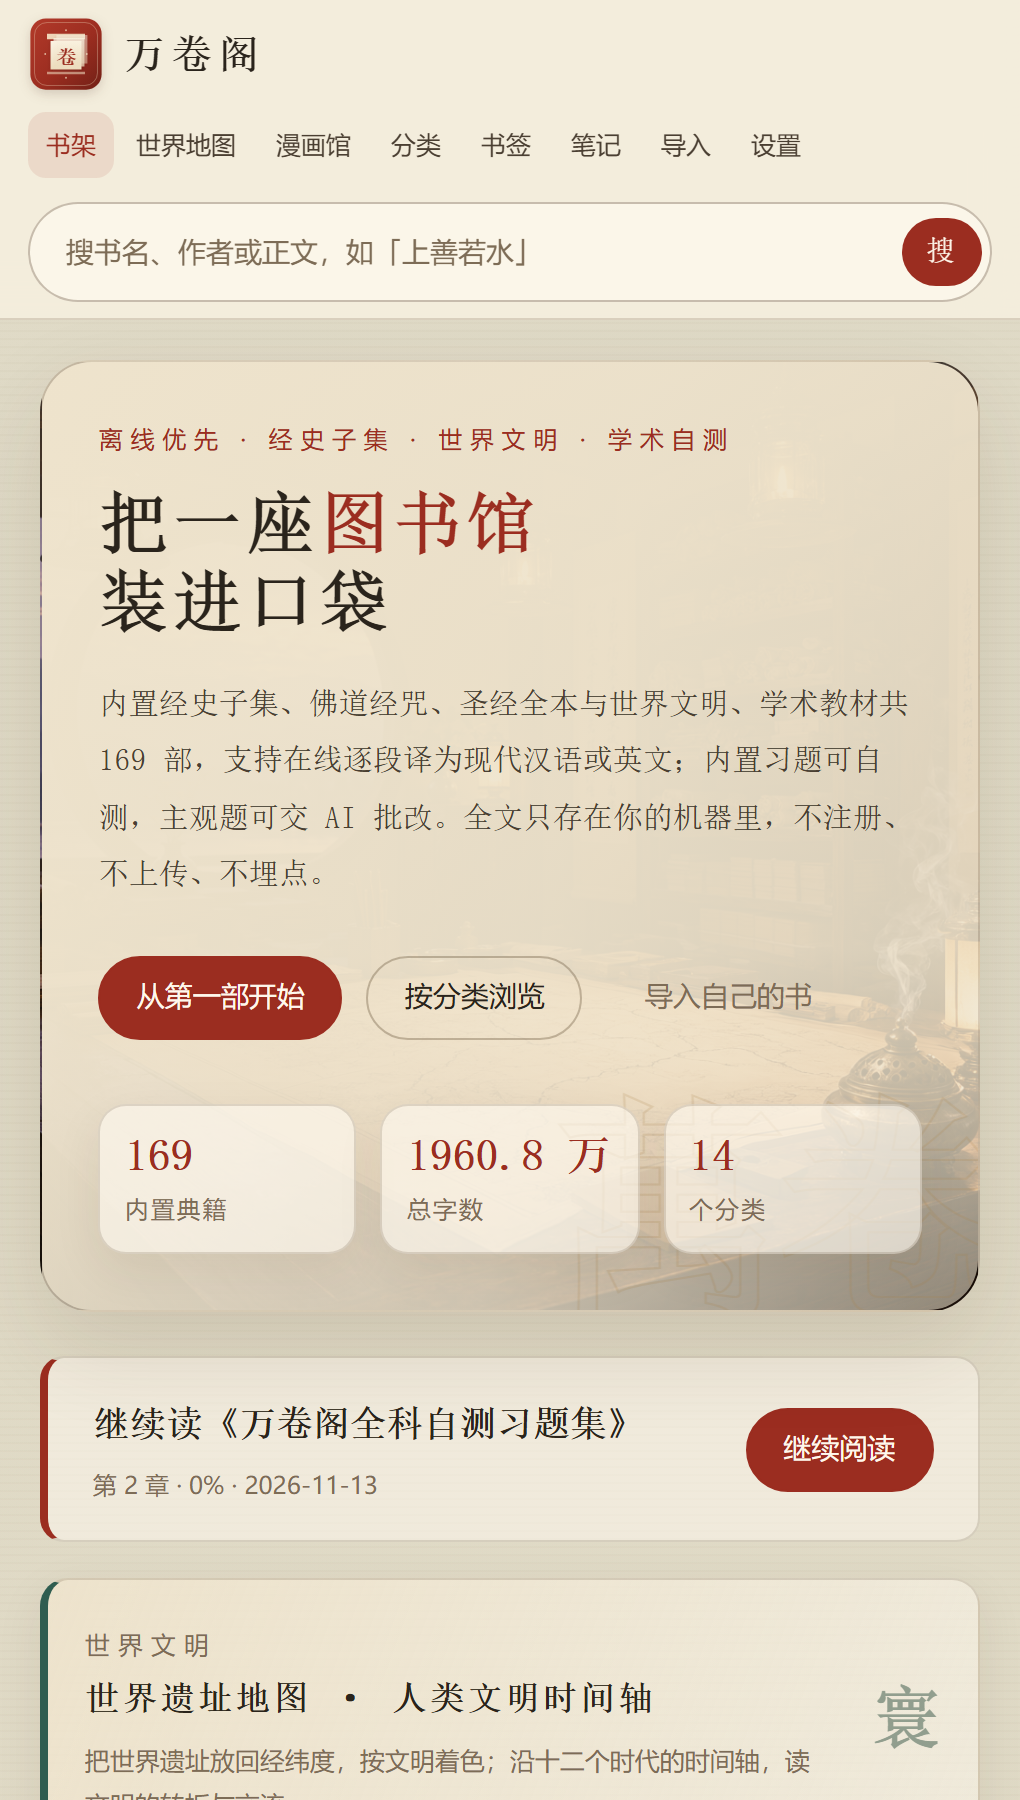
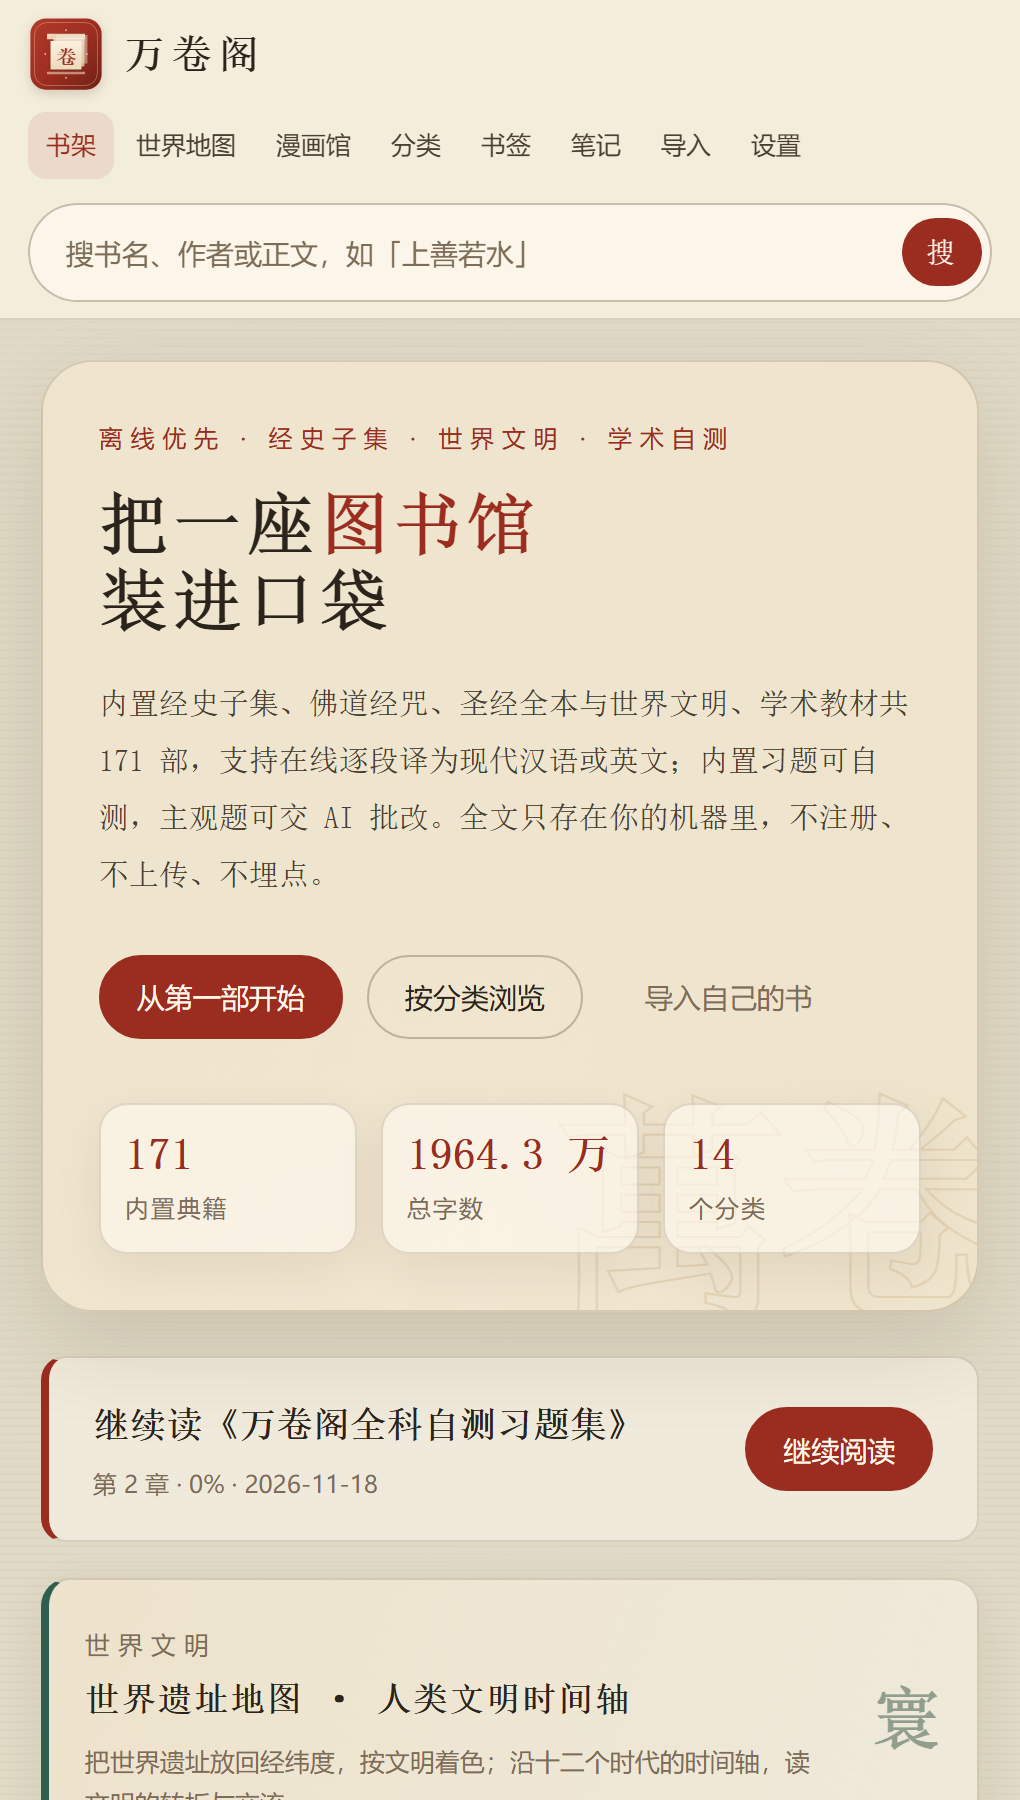
修正发行版残留版本号并更新说明书截图

diff --git a/public/comics.html b/public/comics.html
@@ -175,7 +175,7 @@
     <p class="note">版权说明：DC 与漫威的全部漫画、角色形象与影视作品均为其权利人的版权与商标财产。本馆两部导读为万卷阁原创介绍文字，仅帮助读者了解背景、选择正版读物；不收录漫画原文、画面、台词或情节原文转述，不构成任何授权或替代。阅读原著请支持正版纸本与官方数字平台。</p>
 
     <div class="foot">
-      <span>万卷阁 WANJUAN GE · v1.1.3</span>
+      <span>万卷阁 WANJUAN GE · v1.3.0</span>
       <span>原创漫画与原创导读 · 可离线阅读</span>
       <a href="/">回到书架</a>
     </div>

diff --git a/server.js b/server.js
@@ -21,7 +21,7 @@ const MANUAL_FILE = fs.existsSync(path.join(DOCS_DIR, 'MANUAL.html'))
   : path.join(DOCS_DIR, 'manual.html');
 const WORLD_FILE = path.join(ROOT, 'data', 'world-sites.json');
 const TIMELINE_FILE = path.join(ROOT, 'data', 'world-timeline.json');
-const VERSION = (fs.readFileSync(path.join(ROOT, 'VERSION'), 'utf8') || '1.1.3').trim();
+const VERSION = (fs.readFileSync(path.join(ROOT, 'VERSION'), 'utf8') || '1.3.0').trim();
 const NAME = '万卷阁';
 const RELEASE_REPO = 'IAMMEZSH/wanjuan-ge';
 const GITCODE_PROJECT = 'gcw_So3EkhfR/wanjuan-ge';

diff --git a/android/app/src/main/java/ge/wanjuan/reader/MainActivity.java b/android/app/src/main/java/ge/wanjuan/reader/MainActivity.java
@@ -181,7 +181,7 @@ public class MainActivity extends Activity {
                 + "</style></head><body><h1>无法连接万卷阁服务</h1><p>当前地址：<code>"
                 + TextUtils.htmlEncode(baseUrl)
                 + "</code></p><p>错误：<code>" + TextUtils.htmlEncode(reason) + "</code></p>"
-                + "<ol><li>确认服务器已启动：终端出现“万卷阁 v1.1.3 已启动”。</li>"
+                + "<ol><li>确认服务器已启动：终端出现“万卷阁 v1.3.0 已启动”。</li>"
                 + "<li>手机本机运行（Termux）时，地址应为 <code>http://127.0.0.1:7410</code>。</li>"
                 + "<li>服务在电脑上时，在右上角菜单“服务器地址”填写电脑局域网地址，"
                 + "例如 <code>http://192.168.1.20:7410</code>，并让电脑以 "

diff --git a/launchers/android-termux/README.md b/launchers/android-termux/README.md
@@ -17,7 +17,7 @@ Android 上不需要 APK：用 Termux 在手机内运行同一套 Node 服务，
 ## 安装步骤
 
 1. 从 **F-Droid** 安装 Termux 并打开。
-2. 把 `wanjuan-ge-v1.1.3-android-termux.zip` 传到手机并解压（可用手机自带文件管理器，或 Termux 的 `unzip`）。
+2. 把 `wanjuan-ge-v1.3.0-android-termux.zip` 传到手机并解压（可用手机自带文件管理器，或 Termux 的 `unzip`）。
 3. 授权访问共享存储（只需一次）：
 
    ```bash
@@ -27,7 +27,7 @@ Android 上不需要 APK：用 Termux 在手机内运行同一套 Node 服务，
 4. 进入解压目录的启动器目录并安装，例如：
 
    ```bash
-   cd ~/storage/downloads/wanjuan-ge-v1.1.3-android-termux
+   cd ~/storage/downloads/wanjuan-ge-v1.3.0-android-termux
    cd launchers/android-termux
    bash install.sh
    ```

diff --git a/launchers/linux/README.md b/launchers/linux/README.md
@@ -25,7 +25,7 @@ sudo pacman -S nodejs
 ## 启动
 
 ```bash
-cd wanjuan-ge-v1.1.3-linux        # 进入解压后的目录
+cd wanjuan-ge-v1.3.0-linux        # 进入解压后的目录
 chmod +x launchers/linux/wanjuan-ge.sh
 ./launchers/linux/wanjuan-ge.sh
 ```
@@ -43,7 +43,7 @@ chmod +x launchers/linux/wanjuan-ge.sh
 ## 后台运行
 
 ```bash
-cd wanjuan-ge-v1.1.3-linux
+cd wanjuan-ge-v1.3.0-linux
 nohup node server.js > data/server.log 2>&1 &
 echo $! > data/server.pid
 ```

diff --git a/launchers/windows/README.md b/launchers/windows/README.md
@@ -17,7 +17,7 @@
 启动后会弹出一个标题为「万卷阁 服务端」的命令行窗口：
 
 - **关闭该窗口即停止服务**。
-- 日志里会打印实际监听地址，例如 `万卷阁 v1.1.3 已启动：http://127.0.0.1:7410`。
+- 日志里会打印实际监听地址，例如 `万卷阁 v1.3.0 已启动：http://127.0.0.1:7410`。
 - 按 `Ctrl+C` 也可以停止。
 
 ## 端口被占用

diff --git a/launchers/macos/README.md b/launchers/macos/README.md
@@ -9,7 +9,7 @@
 
 ## 启动
 
-1. 解压 `wanjuan-ge-v1.1.3-macos.zip`，得到 `wanjuan-ge-v1.1.3-macos/` 目录。
+1. 解压 `wanjuan-ge-v1.3.0-macos.zip`，得到 `wanjuan-ge-v1.3.0-macos/` 目录。
 2. 双击 `launchers/macos/万卷阁.command`。
 3. 终端会显示启动日志，Safari 会自动打开 <http://127.0.0.1:7410>。
 4. 停止：关闭终端窗口，或在终端按 `Ctrl+C`。
